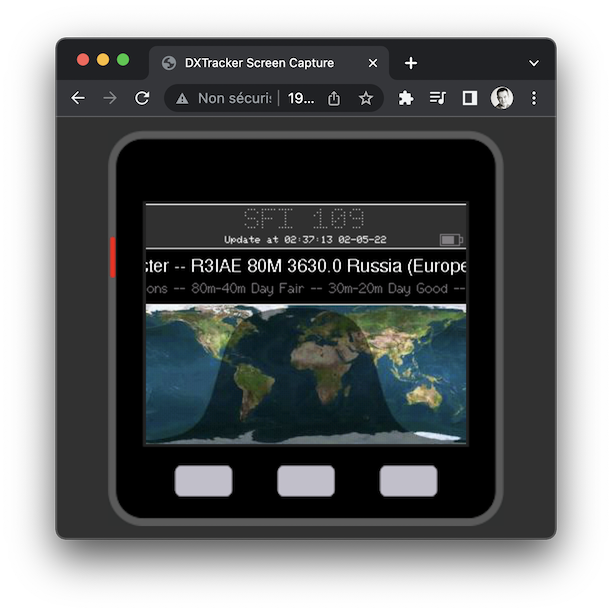
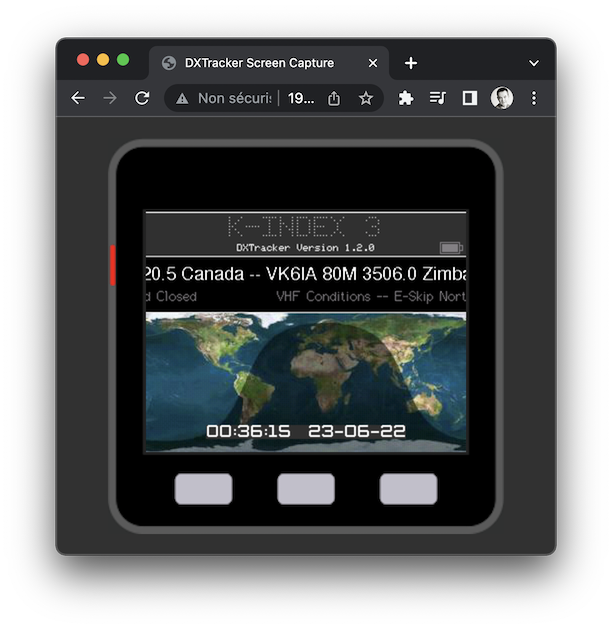
Add map and update README

diff --git a/src/DXTracker.cpp b/src/DXTracker.cpp
@@ -197,6 +197,9 @@ void loop()
 {
   if(settingsMode == true) {
     settingLock = false;
+
+    // Get screenshot
+    getScreenshot();
   }
   else {
     settingLock = true;
